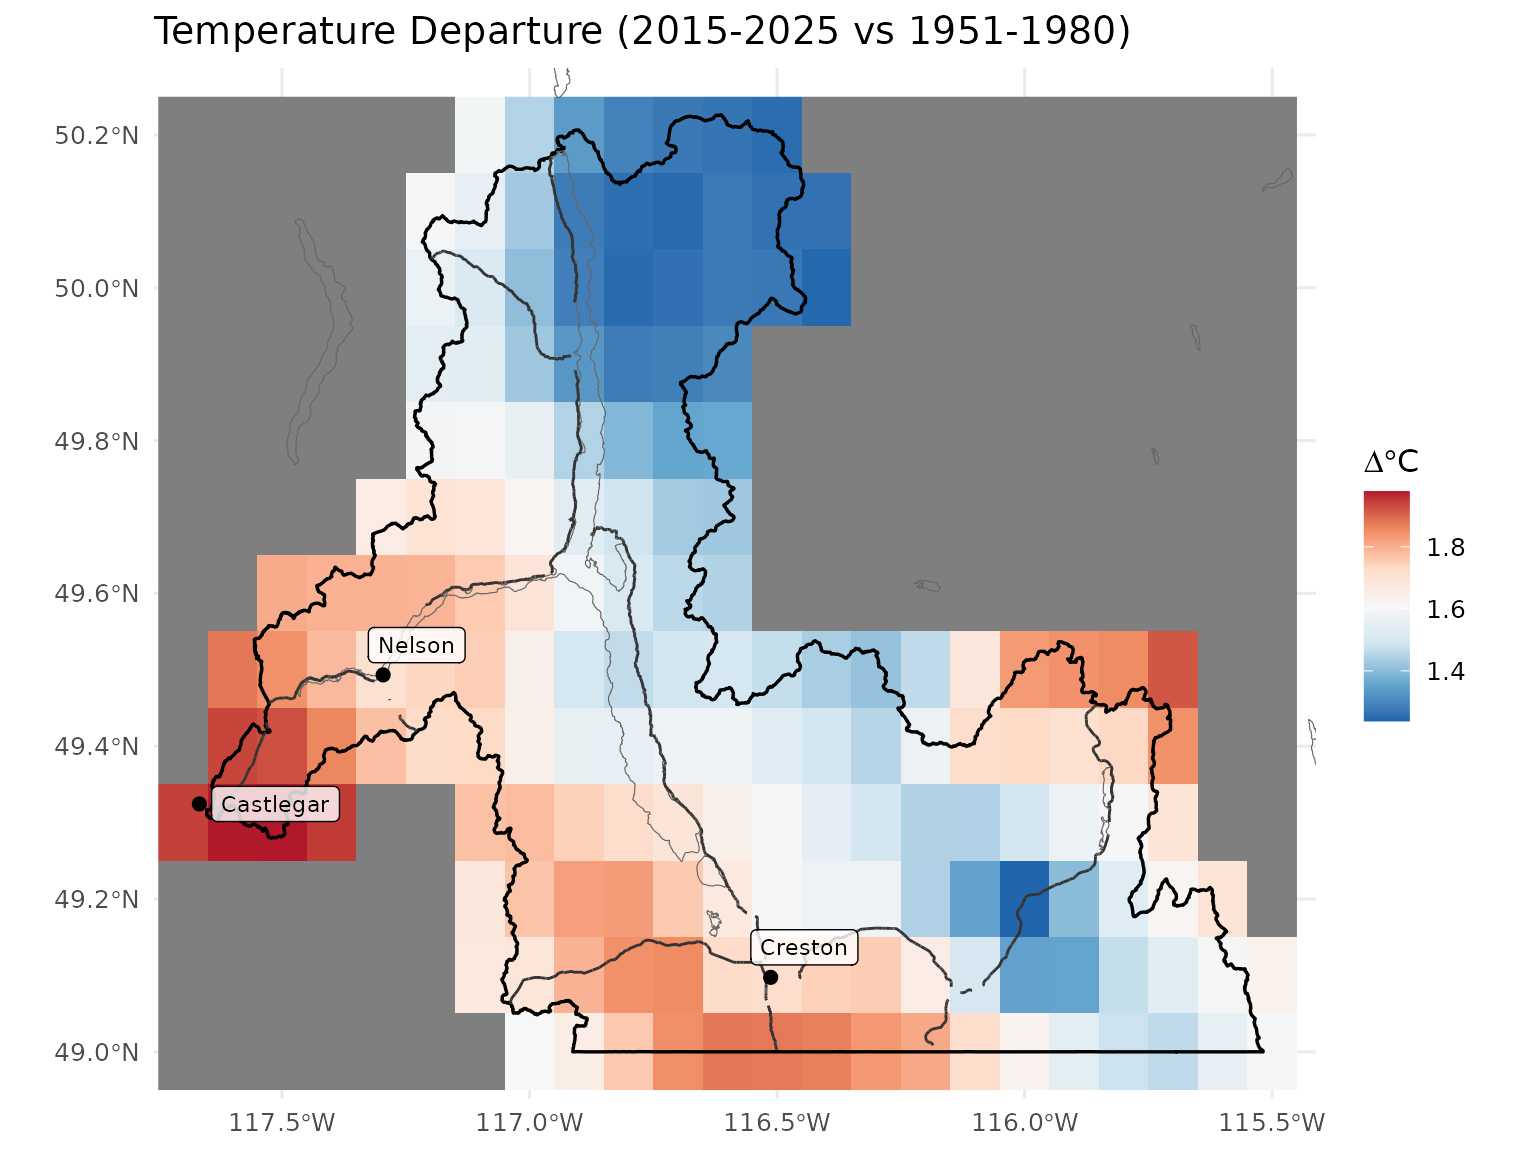
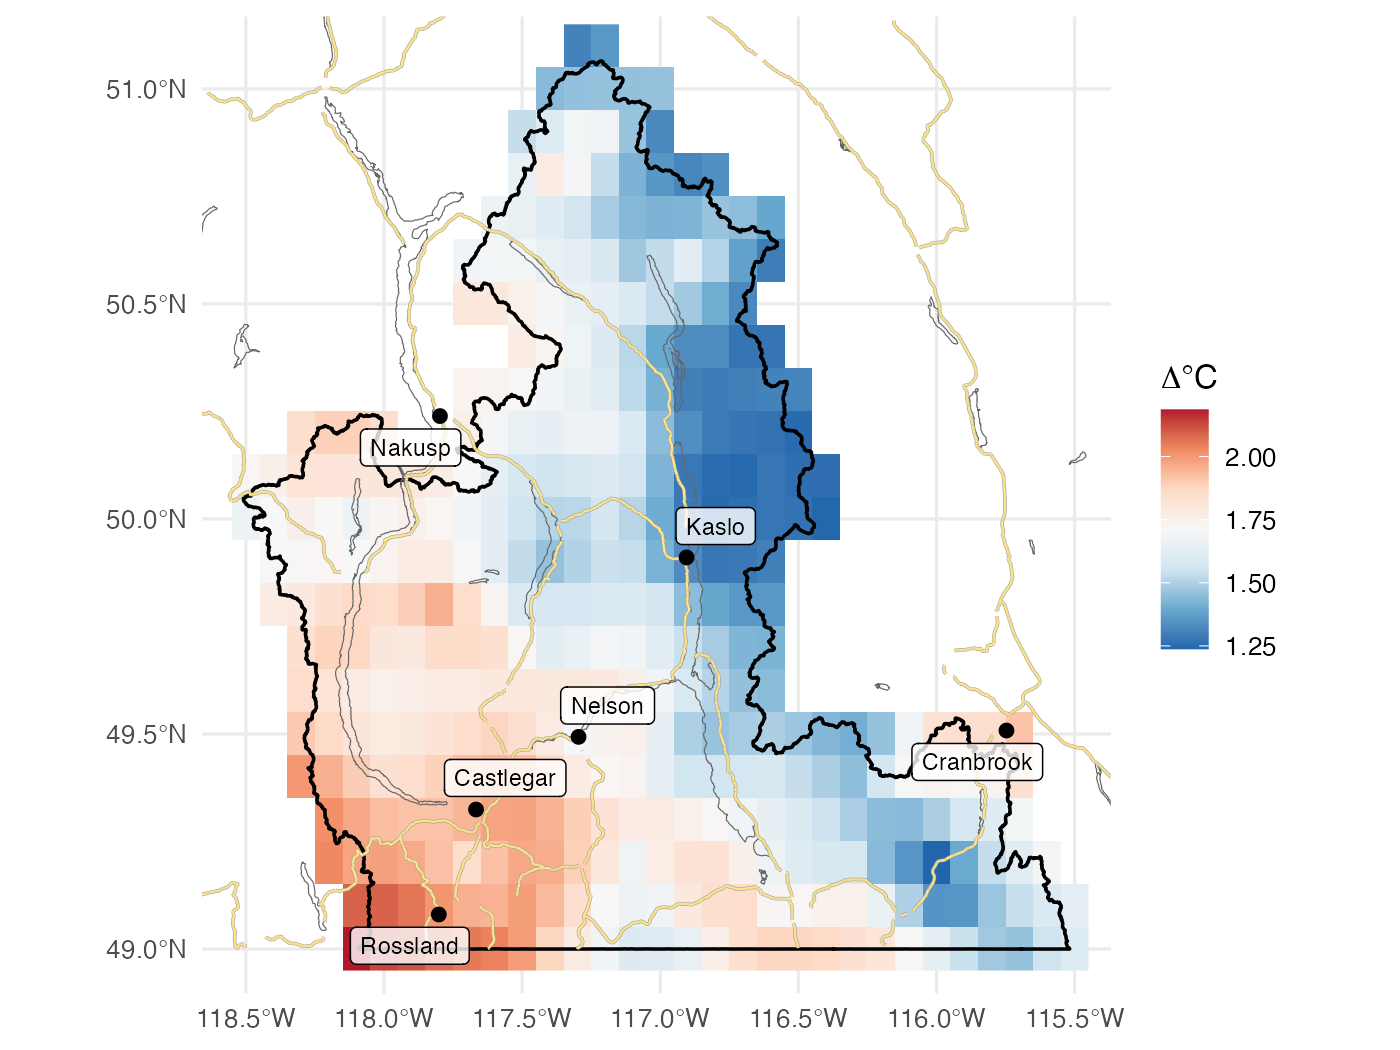
Re-export the cd and fresh maps from their tools (#65)
cd: no in-plot title, no grey blocks, and the caption follows the current area.
fresh: the same map at 150 dpi.

Claude-Session: https://claude.ai/code/session_015Jk6BLCJR6akr2dUiE5A8m

diff --git a/planning/active/task_plan.md b/planning/active/task_plan.md
@@ -52,9 +52,9 @@ Recipe: `posts/2026-11-01-habitat-rules-tested/scripts/habitat-rules_fig-build.R
 
 ## Phase 4: re-exports
 
-- [ ] cd: re-export the temperature departure map with no in-plot title and no grey blocks, starting from `data-raw/readme_figure.R` and the `kootenay-lake` vignette. If it does not reproduce, use `readme-kotl-tmean.png` and record why
-- [ ] fresh: re-export the subbasin map at 1400 px from `vignettes/subbasin-query.Rmd.orig` if it reproduces. If not, keep it and record why
-- [ ] Add the "not yet attributed" label and the config file subtitle to floodplains#136 as a comment
+- [x] cd: re-export the temperature departure map with no in-plot title and no grey blocks, starting from `data-raw/readme_figure.R` and the `kootenay-lake` vignette. If it does not reproduce, use `readme-kotl-tmean.png` and record why
+- [x] fresh: re-export the subbasin map at 1400 px from `vignettes/subbasin-query.Rmd.orig` if it reproduces. If not, keep it and record why
+- [x] Add the "not yet attributed" label and the config file subtitle to floodplains#136 as a comment
 
 ## Phase 5: asset registry
 

diff --git a/content/project/open_source_software/index.md b/content/project/open_source_software/index.md
@@ -111,7 +111,7 @@ Our climate analysis tool, cd, measures how far a watershed's climate has moved 
 
 - [Documentation](https://www.newgraphenvironment.com/cd/) | [Source](https://github.com/NewGraphEnvironment/cd)
 
-![Temperature departure, 2015 to 2025 against 1951 to 1980, around Castlegar, Nelson and Creston.](cd_temperature_departure.png)
+![Temperature departure, 2015 to 2025 against 1951 to 1980, across the Kootenay Lake region.](cd_temperature_departure.png)
 
 ---
 
